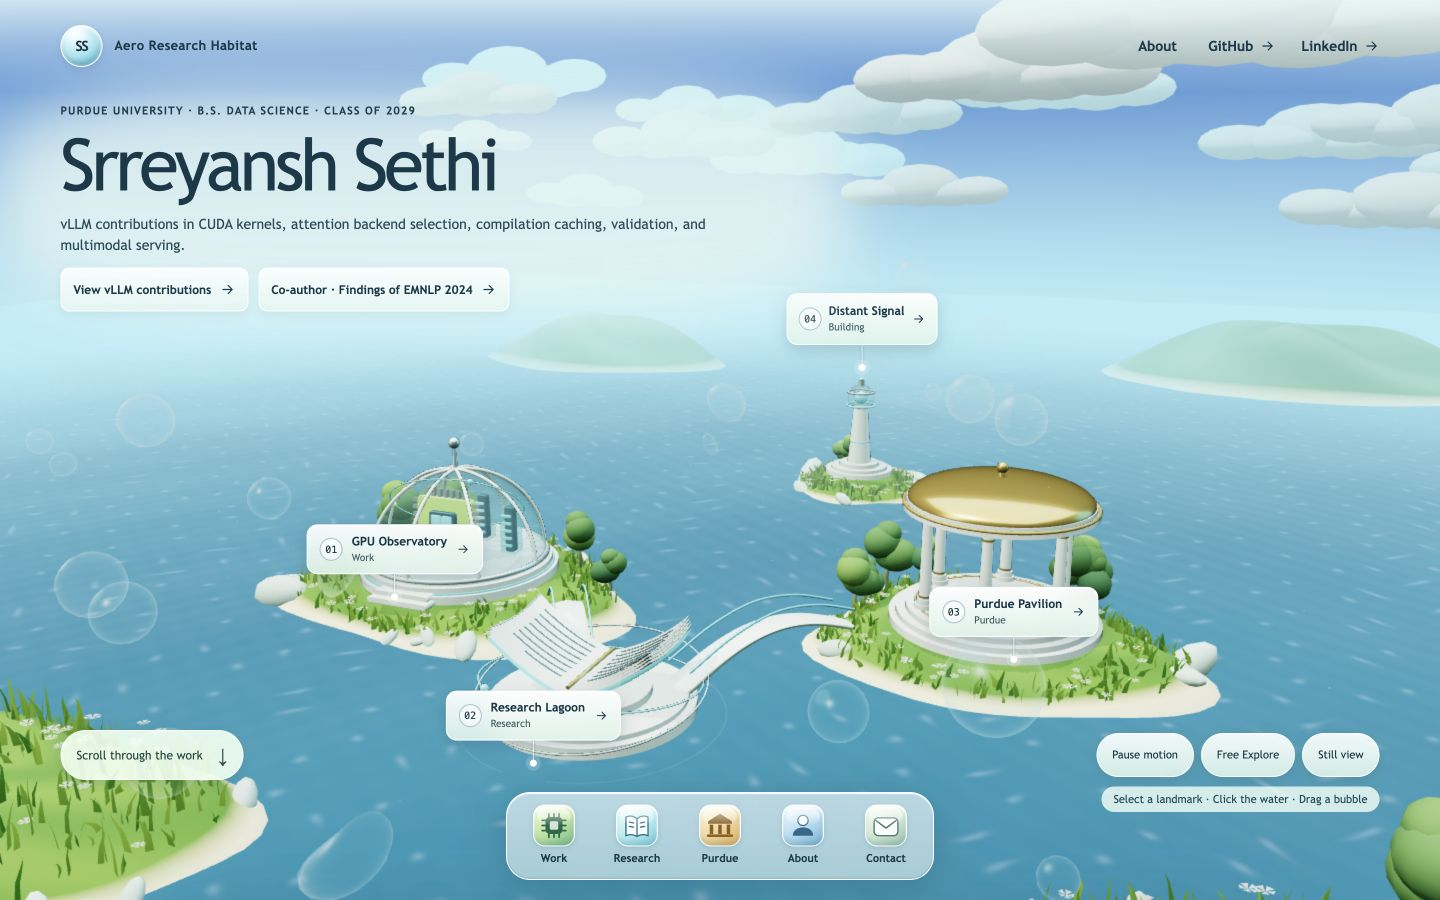
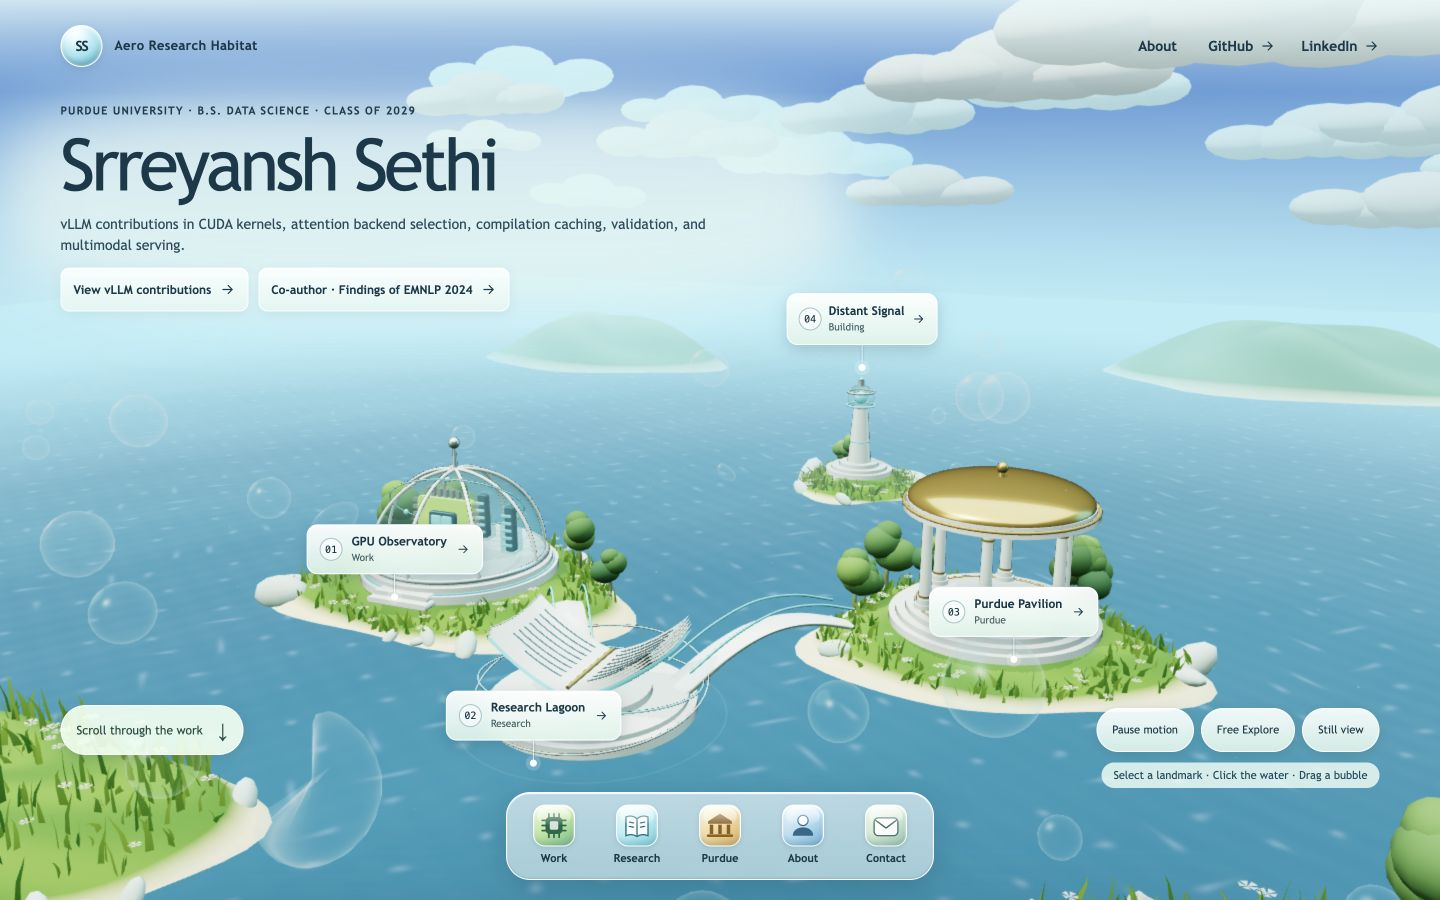
Keep habitat signs and controls readable on compact screens

diff --git a/src/app/globals.css b/src/app/globals.css
@@ -335,7 +335,7 @@ details[open] .disclosure { transform: rotate(45deg); }
 .portfolio { background: #b8edf7; }
 .site-header { z-index: 12; background: linear-gradient(#e5f8f6d9,transparent); }
 .identity { display: block; width: min(890px,75%); padding-top: 10px; pointer-events: none; }
-.identity::before { content: ""; position: absolute; z-index: -1; inset: -8px 40px -5px 0; background: #e5f7f4; opacity: .8; filter: blur(32px); border-radius: 30%; pointer-events: none; }
+.world-stage::after { content: ""; position: absolute; z-index: 4; top: 92px; left: 0; width: min(850px,72%); height: 218px; background: #e5f7f4; opacity: .8; filter: blur(32px); border-radius: 30%; pointer-events: none; }
 .identity h1 { font-size: clamp(52px,5vw,76px); margin: 4px 0 2px; }
 .identity > .eyebrow { color: #173e4a; font-size: 11px; letter-spacing: .1em; }
 .hero-focus { font-size: 19px; font-weight: 500; }
@@ -406,7 +406,7 @@ details[open] .disclosure { transform: rotate(45deg); }
   .habitat { height: auto; min-height: 930px; padding-bottom: 0; background: linear-gradient(#e9fafd,#caeaf0); overflow: hidden; }
   .site-header { padding: 12px 20px; }
   .identity { width: 100%; padding: 14px 20px 0; }
-  .identity::before { display: none; }
+  .world-stage::after { display: none; }
   .identity h1 { font-size: clamp(38px,10.8vw,64px); line-height: 1.1; margin: 10px 0; }
   .identity > .eyebrow { max-width: 320px; font-size: 9px; line-height: 1.7; letter-spacing: .05em; }
   .hero-focus { font-size: 16px; max-width: none; }
@@ -457,4 +457,9 @@ details[open] .disclosure { transform: rotate(45deg); }
   .world-fallback { opacity: .2; }
   .field-guide,.site-footer,.identity,.site-header,.motion-toggle,.landmark-sign,.dock,.panel-paper { background: Canvas; color: CanvasText; }
   .landmark-sign,.dock,.content-panel,.scroll-cue { border: 1px solid CanvasText; }
+}
+
+@media (min-width: 768px) {
+  .world-caption { bottom: calc(145px + max(0px, 800px - 100svh)); }
+  .scene-help { bottom: calc(112px + max(0px, 800px - 100svh)); }
 }

diff --git a/docs/qa/3D_ITERATION_LOG.md b/docs/qa/3D_ITERATION_LOG.md
@@ -7,7 +7,7 @@ This record concerns the real-time rebuild. The earlier illustration-based relea
 1. **First complete scene:** desktop, 768 × 1024 tablet and 390 × 844 mobile captures exposed washed-out materials, overlapping signs and an overly distant mobile camera. Idle observation exceeded 20 seconds. Added rounded groves and shoreline detail, lowered lighting intensity, repositioned signs and moved the mobile camera closer. Camera flight and initialization handling also needed corrections.
 2. **Integrated renderer:** the guarded Fiber root kept HTML usable after a missing constructor was discovered and fixed. Desktop idle measured 60 FPS. Responsive inspection exposed renderer-written canvas dimensions preventing resize. The performance monitor also incorrectly treated healthy incline samples as a reason to fall back. Fixed parent-host sizing and removed the incline-counting fallback. Mouse drag, dialog focus and Back/Forward worked. This iteration was not accepted.
 3. **Responsive scene and stronger color:** captured all three sizes and observed more than 30 seconds of idle motion. Water ripple and bubble-drag counters each advanced; pointer movement changed the camera. Tablet framing now included all landmarks, but exposed a clipped sky sphere. Increased the far plane to contain the sky from every camera pose. Retained caustics at low quality and bypassed tone mapping for authored sky/water colors.
-4. **Release review:** recaptured desktop, tablet and mobile, tested every dock destination, keyboard wrapping, Escape, hashes, fallback, native scroll and overview recovery. Corrected mobile landmark/dock overlap and added a soft reading surface behind the hero. An extended idle observation exposed cloud vertices wrapping independently and stretching across the sky. Clouds now wrap by a shared cluster origin; 75 numerical boundary cases preserve every vertex offset. Browser shader startup remains clean.
+4. **Release review:** recaptured desktop, tablet and mobile, tested every dock destination, keyboard wrapping, Escape, hashes, fallback, native scroll and overview recovery. Corrected mobile landmark/dock overlap and added a soft reading surface behind the hero. An extended idle observation exposed cloud vertices wrapping independently and stretching across the sky. Clouds now wrap by a shared cluster origin; 75 numerical boundary cases preserve every vertex offset. Browser shader startup remains clean. A further 1024 × 768 check moved the hero contrast layer behind the signs and kept scene controls/help above the dock; desktop and tablet views were recaptured.
 
 Early failing iterations received targeted checks; they did not complete the entire acceptance matrix. The release checks below distinguish browser observations from automated coverage and remaining gaps.
 
@@ -20,6 +20,7 @@ Early failing iterations received targeted checks; they did not complete the ent
 | Dependency validation | Valid pinned peer tree; `npm audit --omit=dev`: 0 vulnerabilities |
 | Privacy audit | Two private exclusion criteria scanned externally through filenames, source, exported text, Unicode, escapes, entities and Base64; no violations; criteria are not shipped |
 | Desktop | 1440 × 900, high tier, representative 60 FPS, 79–80 main-render calls, 141,918–143,390 triangles, DPR 1 on the test display |
+| Compact desktop | 1024 × 768, no horizontal overflow; controls end at y=623, help at y=656, dock starts at y=660 |
 | Tablet | 768 × 1024, all four landmarks in frame, no horizontal overflow; representative high tier 60 FPS, 80 calls, 143,390 triangles |
 | Mobile | 390 × 844, medium tier on fresh load, representative 60 FPS, 80 calls, 107,462 triangles; landmark map ends at y=746 and dock begins at y=752 |
 | Low tier | Observed before the monitor correction: 79–80 calls, 85,268–86,740 triangles and 60 FPS; final low-tier geometry/water behavior also covered by tests |
@@ -61,4 +62,4 @@ The environment uses stylized procedural water highlights and a small generated 
 
 Automated tests confirm reduced motion, forced colors, Save-Data and manual static preference each disable WebGL, camera, ambient and physics channels. The requested browser-level reduced-motion and forced-colors emulation remains unverified: native browser control was interrupted and then timed out. Save-Data is policy-tested, not emulated on a physical connection. These gaps remain explicit; this record does not claim full acceptance of the original verification request.
 
-Release screenshots: [desktop](3d/desktop.jpg), [tablet](3d/tablet.jpg), [mobile](3d/mobile.jpg), [work panel](3d/work-panel.jpg).
+Release screenshots: [desktop](3d/desktop.jpg), [tablet](3d/tablet.jpg), [mobile](3d/mobile.jpg), [work panel](3d/work-panel.jpg), [compact desktop](3d/compact.jpg).
